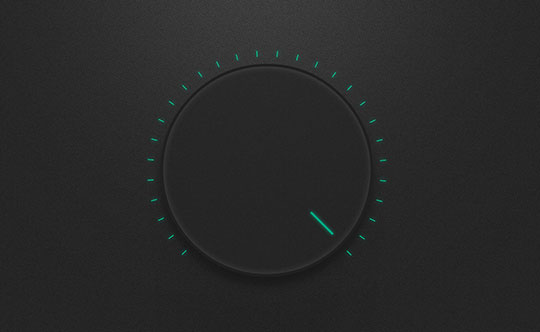
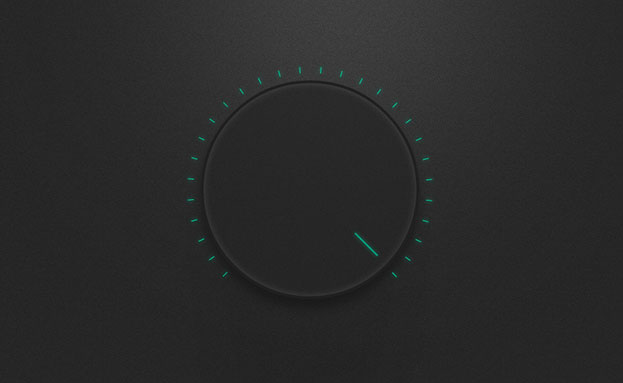
Updated home page and knob layout

diff --git a/app/assets/stylesheets/_knob.scss b/app/assets/stylesheets/_knob.scss
@@ -23,21 +23,20 @@
 }
 
 .knob-back{
-  // position: relative;
+  position: fixed;
   background-image: url("knob-back.jpg");
   background-repeat: no-repeat;
-  width:100%;
+  width:1440px;
   height: auto;
-  // margin: 0 auto;
-  // display: block;
-  // z-index:-1;
+  margin: 0 auto;
+
 }
 
 .knob-hero {
   background-image: url("dark-tweed.jpg");
   margin: 0 auto;
   width: 100%;
-  height: 50%;
+  height: 900px;
   padding: 0 0 0 0;
   display:block;
   @include box-shadow(0 0 .4em 0 $darkgray);
@@ -48,7 +47,7 @@
   position: relative;
   background-image: url("dark-tweed-bg.jpg");
   background-repeat: no-repeat;
-  width: 92%;
+  width: 100%;
   height: 50em;
   padding: 20% 0 0 0;
   margin: 0 auto;
@@ -137,35 +136,16 @@ $num: -135;
   }
 }
 
-// .tick:nth-child(1)  { @include transform(rotate(-135deg)); }
-// .tick:nth-child(2)  { @include transform(rotate(-125deg)); }
-// .tick:nth-child(3)  { @include transform(rotate(-115deg)); }
-// .tick:nth-child(4)  { @include transform(rotate(-105deg)); }
-// .tick:nth-child(5)  { @include transform(rotate(-95deg));  }
-// .tick:nth-child(6)  { @include transform(rotate(-85deg));  }
-// .tick:nth-child(7)  { @include transform(rotate(-75deg));  }
-// .tick:nth-child(8)  { @include transform(rotate(-65deg));  }
-// .tick:nth-child(9)  { @include transform(rotate(-55deg));  }
-// .tick:nth-child(10) { @include transform(rotate(-45deg));  }
-// .tick:nth-child(11) { @include transform(rotate(-35deg));  }
-// .tick:nth-child(12) { @include transform(rotate(-25deg));  }
-// .tick:nth-child(13) { @include transform(rotate(-15deg));  }
-// .tick:nth-child(14) { @include transform(rotate(-5deg));   }
-// .tick:nth-child(15) { @include transform(rotate(5deg));    }
-// .tick:nth-child(16) { @include transform(rotate(15deg));   }
-// .tick:nth-child(17) { @include transform(rotate(25deg));   }
-// .tick:nth-child(18) { @include transform(rotate(35deg));   }
-// .tick:nth-child(19) { @include transform(rotate(45deg));   }
-// .tick:nth-child(20) { @include transform(rotate(55deg));   }
-// .tick:nth-child(21) { @include transform(rotate(65deg));   }
-// .tick:nth-child(22) { @include transform(rotate(75deg));   }
-// .tick:nth-child(19) { @include transform(rotate(45deg));   }
-// .tick:nth-child(20) { @include transform(rotate(55deg));   }
-// .tick:nth-child(21) { @include transform(rotate(65deg));   }
-// .tick:nth-child(22) { @include transform(rotate(75deg));   }
-// .tick:nth-child(23) { @include transform(rotate(85deg));   }
-// .tick:nth-child(24) { @include transform(rotate(95deg));   }
-// .tick:nth-child(25) { @include transform(rotate(105deg));  }
-// .tick:nth-child(26) { @include transform(rotate(115deg));  }
-// .tick:nth-child(27) { @include transform(rotate(125deg));  }
-// .tick:nth-child(28) { @include transform(rotate(135deg));  }
+@media screen and (max-width: 700px) {
+
+  .knob-back{
+    overflow: hidden;
+    padding: 50% 0 0 0;
+
+  }
+
+  .knob-hero {
+    margin: 0 auto;
+    width: 100%;
+  }
+}

diff --git a/app/assets/stylesheets/_layout.scss b/app/assets/stylesheets/_layout.scss
@@ -1,11 +1,17 @@
 .container {
   margin: 0 auto;
   max-width: 1508px;
-  padding: 8.3% 8.3% 0 8.3%;
+  padding: 5% 5% 0 5%;
+}
+
+.container-home {
+  margin: 0 auto;
+  max-width: 1490px;
+  padding: 5% 5% 0 5%;
 }
 
 .grid {
-  margin: 0 auto;
+  margin: 0;
 
 
   &:after {
@@ -44,6 +50,10 @@
   width: 41.6%;
 }
 
+.col-6-12 {
+  width: 50%;
+}
+
 .col-7-12 {
   width: 58.3%;
 }
@@ -67,21 +77,21 @@
 .big-box {
   position: relative;
   overflow: hidden;
-  background: $green;
-  margin: 3px;
-//   -webkit-box-shadow: 1px 0px 16px -4px rgba(0,0,0,0.25);
-// -moz-box-shadow: 1px 0px 16px -4px rgba(0,0,0,0.25);
-// box-shadow: 1px 0px 16px -4px rgba(0,0,0,0.25);
+  background: $darkgray;
+  // margin: 5px 5px 5px 5px;
+  -webkit-box-shadow: 1px 0px 16px -4px rgba(0,0,0,0.25);
+  -moz-box-shadow: 1px 0px 16px -4px rgba(0,0,0,0.25);
+  box-shadow: 1px 0px 16px -4px rgba(0,0,0,0.25);
 }
 
 .small-box {
   position: relative;
   overflow: hidden;
-  background: $green;
-  margin: 3px;
-//   -webkit-box-shadow: 1px 0px 16px -4px rgba(0,0,0,0.25);
-// -moz-box-shadow: 1px 0px 16px -4px rgba(0,0,0,0.25);
-// box-shadow: 1px 0px 16px -4px rgba(0,0,0,0.25);
+  background: $darkgray;
+  // margin: 5px 5px 5px 5px;
+  -webkit-box-shadow: 1px 0px 16px -4px rgba(0,0,0,0.25);
+  -moz-box-shadow: 1px 0px 16px -4px rgba(0,0,0,0.25);
+  box-shadow: 1px 0px 16px -4px rgba(0,0,0,0.25);
 }
 
 figure {
@@ -113,7 +123,6 @@ figure img {
 
 .effect .mask {
    opacity: 0;
-  //  padding: 30% 20%;
    text-align: center;
    transition: all 0.4s ease-in-out;
 }
@@ -121,6 +130,8 @@ figure img {
 .effect:hover .mask {
    opacity:.95;
    background-color: #2c5148;
+   transition-delay:.2s;
+
 }
 
 .projecthead {
@@ -149,7 +160,7 @@ figure img {
 
   overflow: hidden;
   width: 100%;
-  margin: 8.3% 0 0 0;
+  margin: 0 0 0 0;
   height: auto;
 }
 
@@ -206,10 +217,46 @@ box-shadow: inset 1px 0px 16px 0px rgba(0,0,0,0.75);
   margin: 0;
 }
 
+.project-logo{
+  margin: 5% 0 0 0;
+}
+.project-p{
+  width: 100%;
+  margin: 20px 0 15px 0;
+}
+
+@media screen and (max-width: 1050px) {
+
+  .project-logo{
+    display:none;
+  }
+}
+
 @media screen and (max-width: 700px) {
 
 .resp {
   float: left;
   width: 25%;
 }
+
+[class*='col-'] {
+  float: none;
+  // padding-right: 20px;
+  .grid &:last-of-type {
+    // padding-right: 0;
+  }
+
+  .project-logo{
+    display:inline;
+  }
+}
+
+.col-5-12 {
+  width: 100%;
+}
+
+.col-7-12 {
+  width: 100%;
+}
+
 }

diff --git a/app/assets/stylesheets/_type.scss b/app/assets/stylesheets/_type.scss
@@ -5,11 +5,12 @@ html {
 }
 
 body {
-  background-color: $gray;
+  background-color: $darkgray;
+  // background-image: url('stardust.png');
   font-family: Roboto;
   font-weight: 400;
   font-size: 1em;
-  line-height: 1.25;
+  line-height: 1.75;
   color: $gray;
 }
 
@@ -65,8 +66,8 @@ small, .font_small {font-size: 0.707em;}
 
 .cap{
   line-height: 1.6em;
-  font-size: 1.2em;
-  color: $green;
+  font-size: 1.1em;
+  color: $gray;
   margin: 20px 0 100px 0;
     // margin-bottom: 1.3em;
     // margin-top: 1.3em;

diff --git a/app/assets/stylesheets/_sidebar.scss b/app/assets/stylesheets/_sidebar.scss
@@ -3,11 +3,7 @@
 }
 
 @media screen and (max-width: 700px) {
-  body, html {
-    // height: 100%;
-    // margin: 0;
-    // overflow: hidden;
-  }
+
 
   #sidebar {
       position: fixed;
@@ -26,7 +22,6 @@
       position: relative;
       height: 100%;
       width: 100%;
-      background-color: $gray;
       // -webkit-box-shadow: -2px 0px 20px -4px rgba(112,153,136,1);
       // -moz-box-shadow: -2px 0px 20px -4px rgba(112,153,136,1);
       // box-shadow: -2px 0px 20px -4px rgba(112,153,136,1);

diff --git a/app/assets/stylesheets/_colors.scss b/app/assets/stylesheets/_colors.scss
@@ -1,6 +1,6 @@
 $green: #05dba7;
 $darkgreen: #076C54;
 $gray: #f1f1f1;
-$darkgray: #333333;
+$darkgray: #2F2F2F;
 $yellow: #e1d8b6;
 $orange: #da9a4d;
